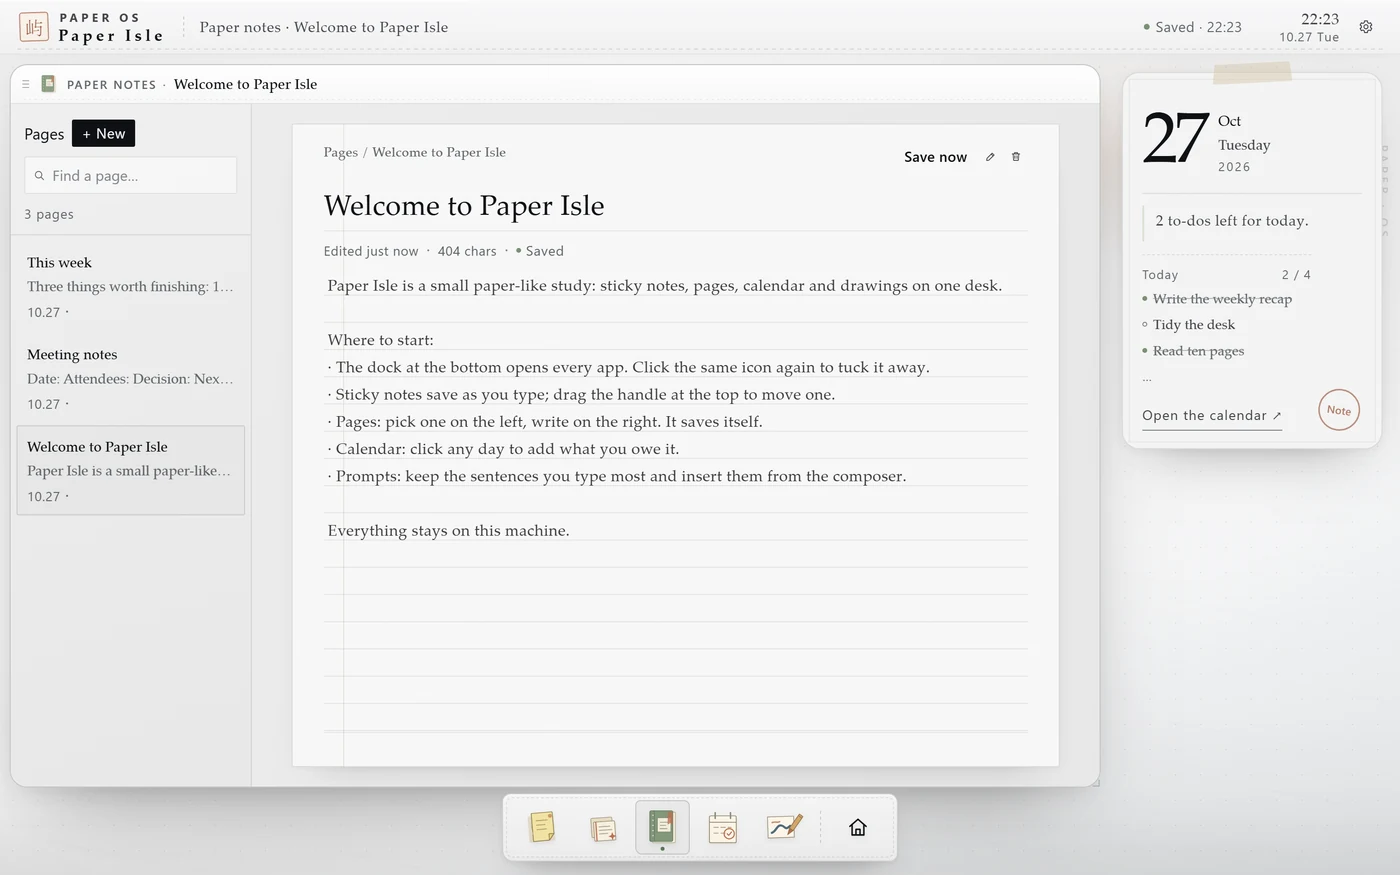
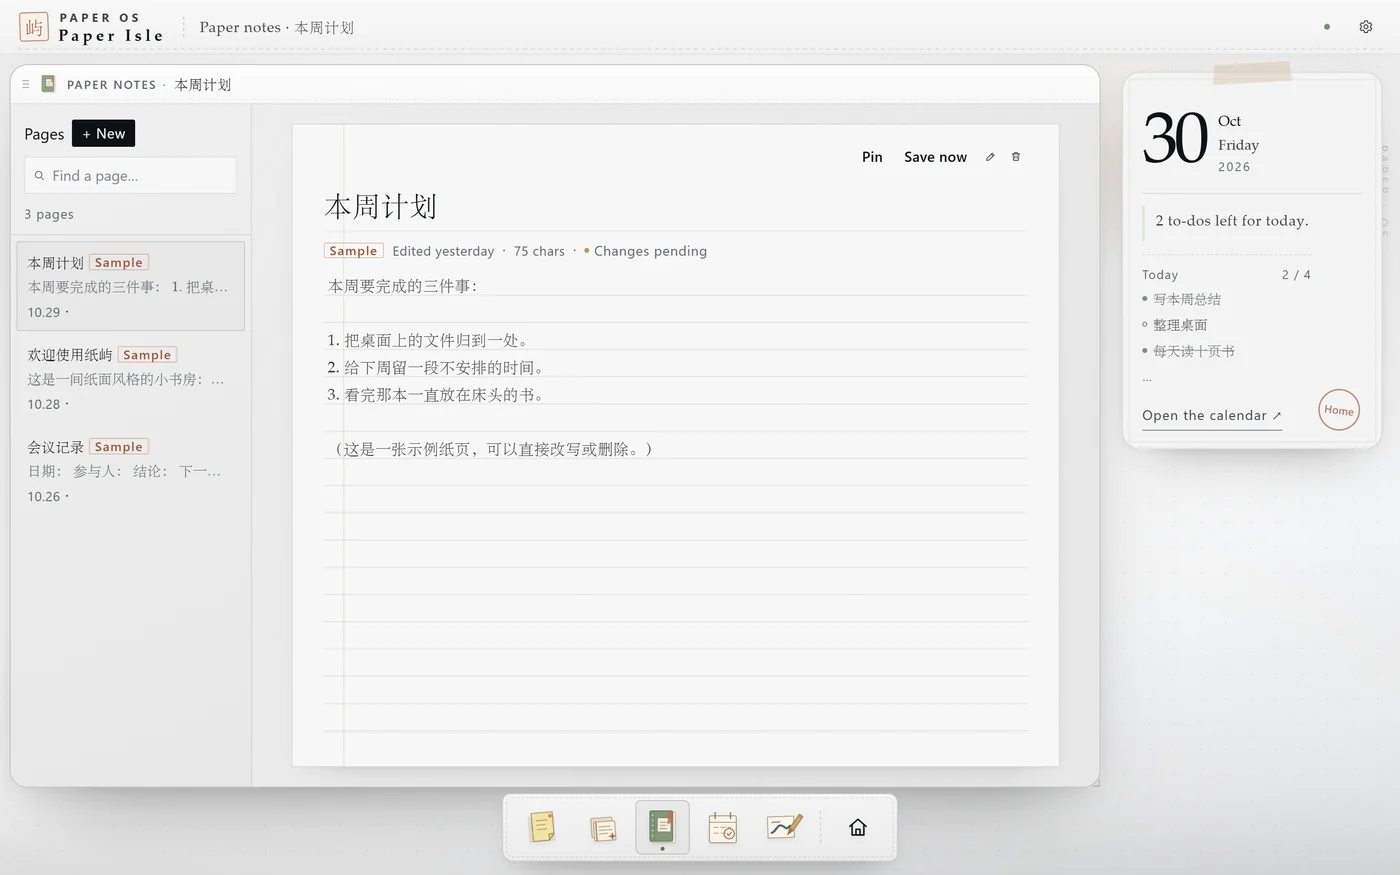
docs(0.5.0): README 截图按 0.5.0 界面重拍（中英各 8 张）+ README/CHANGELOG 对齐

diff --git a/README.en.md b/README.en.md
@@ -29,11 +29,11 @@ It is deliberately quiet: no floating toasts, no empty status rows, and no netwo
 <img width="1400" alt="Sticky notes" src="assets/screenshot-stickies-en.webp">
 
 - **Trash for stickies**: deleting a note does not pop an undo toast; the card goes to the trash at the top of the sticky window and stays for **7 days**, ready to restore. Empty cards are discarded immediately.
-- **Paper pages**: long-form writing with a searchable list on the left and autosave. A new page keeps its title as a placeholder, so an untouched page never leaves a stray untitled line behind.
+- **Paper pages**: long-form writing with a searchable list on the left and autosave. A new page keeps its title as a placeholder, so an untouched page never leaves a stray untitled line behind. Pages can be pinned; pinned pages stay on top.
 
 <img width="1400" alt="Paper pages" src="assets/screenshot-notes-en.webp">
 
-- **Calendar & tasks**: every task carries one of **four urgency levels** (urgent and important / important not urgent / urgent not important / neither), switchable **right on the task row**: tap the dot for the four levels, tap the chip beside it to flip between “today only” and “every day”. The detail dialog is optional.
+- **Calendar & tasks**: every task carries one of **four urgency levels** (urgent and important / important not urgent / urgent not important / neither), switchable **right on the task row**: tap the dot for the four levels, tap the chip beside it to flip between “today” and “every day”. The detail dialog is optional.
 - **Calendar dots**: unfinished tasks sit above the day number, coloured by level; **finished ones sink to the bottom of the cell and turn grey**, and never swap places.
 - **Repeating tasks**: choose “every day” and each day produces exactly one current instance from the anchor date; checking in today grows a fresh instance tomorrow. Only days actually checked in keep a grey dot — future days are never pre-filled. When the last instance is checked, “this task is done” appears; collapse it and no new instances grow, with the option to restore, showing “checked in N days”.
 
@@ -49,7 +49,7 @@ It is deliberately quiet: no floating toasts, no empty status rows, and no netwo
 
 <img width="1400" alt="Drawing paper" src="assets/screenshot-draw-en.webp">
 
-- **Fixed right rail**: today's card always sits on the right; windows live in the work area and never cover it.
+- **Today card**: on wide panels (>820px) it stays on the right and windows never cover it; on narrow panels it steps aside so the work area keeps the full width.
 - **Dock**: the single entry point for every app. Tap an icon to open or tuck away its window; **icons can be dragged into a new order** (`Alt + ←/→` moves the focused icon too, the order is remembered, and Settings → Appearance → “Reset” restores it). The house button on the right tucks every window away, and brings them back when tapped again.
 - **Tidy the desk**: tapping empty desk space also tucks every window into the dock (windows are kept, tap an icon to bring one back).
 - **Commands & Apps**: the first section in Settings, one keystroke away with `Ctrl/Cmd + K`. Search apps, pages or actions, `↑↓` to move, `Enter` to run; once something else opens, Settings tucks itself away.
@@ -57,7 +57,7 @@ It is deliberately quiet: no floating toasts, no empty status rows, and no netwo
 <img width="1400" alt="Commands and apps" src="assets/screenshot-commands-dark-en.webp">
 
 - **Plain windows**: no minimise/maximise/close buttons — drag the title bar to move and the bottom-right corner to resize. Close the current window with `Esc`, `Ctrl/Cmd + Alt + W`, or Settings → Commands & Apps → “Close current window”.
-- **First-run tour**: a six-step tour plays on first open; replay it from Settings → Shortcuts → “Play again”.
+- **First-run tour**: a six-step tour plays on first open; replay it from Settings → Tutorial → “Play again”.
 - **Backup**: Settings → Data & Backup exports and imports the whole workspace as JSON.
 - **Colours that match DSH**: desk, windows, panels and inset surfaces take the host's own colours, and text follows the DSH label scale. Three modes: **Follow DSH** (default — the panel follows the host's light/dark switch live, no refresh needed), Light, and Dark. The plugin only reads the host theme signal and never writes the host DOM, so it does not clash with skin plugins.
 - **Dark mode, reworked**: paper grain is removed in dark mode, and desk, windows and panels sit on a real brightness ladder; sticky cards keep their colours but a step lighter instead of turning muddy.
@@ -65,7 +65,7 @@ It is deliberately quiet: no floating toasts, no empty status rows, and no netwo
 
 <img width="1400" alt="Dark mode" src="assets/screenshot-calendar-dark-en.webp">
 
-- **Upgrades never lose data**: the workspace is versioned with a migration ladder, v1 → v2 → v3 (v3 only adds the prompt library). Before writing, the host saves the previous version as `workspace.v<old>.backup.json` and keeps `workspace.prev.json` for every write. A workspace that fails validation opens **read-only** with the original kept aside — an example desk never overwrites it.
+- **Upgrades never lose data**: the workspace is versioned with a migration ladder, v1 → v2 → v3 → v4 (v3 only adds the prompt library; v4 only adds the page `pinned` flag, and its migration changes only `version` and `meta` — no data is touched). Before writing, the host saves the previous version as `workspace.v<old>.backup.json` and keeps `workspace.prev.json` for every write. A workspace that fails validation opens **read-only** with the original kept aside — an example desk never overwrites it.
 - **Switching away does not lose state**: come back from another DSH view and the windows, the selected page, the calendar day, the sticky scroll position, the open drawing and the Settings section are all where you left them.
 
 ## Installation
@@ -110,7 +110,7 @@ After installing, “便签” appears in the left sidebar under Plugins / Autom
 | Tuck every window away | Tap the house button, or tap empty desk space |
 | Close the current window | `Esc` / `Ctrl/Cmd + Alt + W` / Settings → Commands & Apps → “Close current window” |
 | Reorder the dock | Drag an icon; or focus it and press `Alt + ←/→` |
-| Replay the tour | Settings → Shortcuts → “Play again” |
+| Replay the tour | Settings → Tutorial → “Play again” |
 | Back up data | Settings → Data & Backup → “Export workspace” |
 
 ## Where the data lives
@@ -126,7 +126,7 @@ After installing, “便签” appears in the left sidebar under Plugins / Autom
 - Built against DSH **0.2.1-rc.2**.
 - Verified on Windows 11 + DSH 0.2.1-rc.2: install, sidebar, panel, data kept after refresh and view switches, host persistence, export/import.
 - CI runs the build, page contract, DOM nesting, host route and client syntax checks on **Windows / macOS / Ubuntu** runners.
-- **Not tested on a real macOS / Linux DSH**: shortcut labels switch to ⌘/⌥ automatically; data paths use `DSH_HOME` or `~/.dsh`; there are no platform-specific binaries. Please open an issue if something breaks.
+- **Not tested on a real macOS / Linux DSH**: data paths use `DSH_HOME` or `~/.dsh`; there are no platform-specific binaries. Please open an issue if something breaks.
 - The UI ships in English and Chinese: it follows DSH Settings → General → Language by default, and Settings → Appearance → Language can override it for Paper Isle alone; windows and whatever each app was showing come back after a switch. The sidebar entry is “便签” in Chinese and “Sticky” in English.
 - Both pages are built from one Chinese source; sample content uses the language active when it was created, and anything you wrote is never translated.
 
@@ -160,7 +160,7 @@ node smoke/page_e2e.mjs
 | `smoke/run_all_checks.py` | Project gates |
 | `smoke/host_route_test.mjs` | Host persistence route, upgrade backup, font route |
 | `smoke/migrate_test.mjs` | Migration gate: v1 snapshot to v2, field by field, with negative cases |
-| `smoke/page_e2e.mjs` | Real-browser page checks (headless browser, 127 assertions across both pages) |
+| `smoke/page_e2e.mjs` | Real-browser page checks (headless browser, 167 assertions across both pages) |
 | `assets/fonts/` | Bundled handwriting subset (LXGW WenKai, OFL) with source and licence |
 
 ### Design choices

diff --git a/README.md b/README.md
@@ -23,11 +23,11 @@
 <img width="1400" alt="便签" src="assets/screenshot-stickies.webp">
 
 - **废纸篓**：删掉的便签不弹「撤销」提示，而是进便签窗口顶部的废纸篓，**留 7 天**，随时放回去；空便签直接丢弃。
-- **纸页笔记**：长文写作，左侧列表搜索/切换，自动保存。新纸页的标题像正文一样是 placeholder，不写字不会留下一行「未命名纸页」。
+- **纸页笔记**：长文写作，左侧列表搜索/切换，自动保存。新纸页的标题像正文一样是 placeholder，不写字不会留下一行「未命名纸页」。纸页可以置顶，置顶的排在最前面。
 
 <img width="1400" alt="纸页笔记" src="assets/screenshot-notes.webp">
 
-- **日历与待办**：每件事有**四档紧急程度**（重要且紧急 / 重要但不紧急 / 紧急但不重要 / 不紧急也不重要），**在待办行右侧就地切换**：点色点弹出四档选择（选中即生效），点旁边的胶囊在「仅今日 / 每天」之间切换，都不用进详情。
+- **日历与待办**：每件事有**四档紧急程度**（重要且紧急 / 重要但不紧急 / 紧急但不重要 / 不紧急也不重要），**在待办行右侧就地切换**：点色点弹出四档选择（选中即生效），点旁边的胶囊在「今日 / 每天」之间切换，都不用进详情。
 - **日历圆点**：未完成的点在上、按档位着色；**完成的点沉到格子底部并变灰**，位置固定不换位。
 - **持久待办**：选「每天」后，从锚定日起**每天出现一条当前实例**，今天打卡后第二天自动长出一条未完成的新实例；日历上只留真正打过卡的日子（灰点），未来不铺。勾完当天会出现「这件事算结束了」，收起后不再长新实例、随时可恢复，并显示「打卡 N 天」。
 
@@ -43,7 +43,7 @@
 
 <img width="1400" alt="画纸" src="assets/screenshot-draw.webp">
 
-- **固定右侧栏**：今日纸签始终在右侧，窗口只在左侧工作区活动，不会被遮住。
+- **今日纸签**：宽面板（>820px）时固定在右侧，窗口不会被遮住；窄面板下它自动让位，把整幅宽度留给窗口。
 - **底部应用坞**：所有应用的唯一入口；点图标打开/收起窗口；**图标可以拖动排序**（聚焦后按 `Alt + ←/→` 也能挪，顺序会记住；设置 → 外观 →「恢复默认」还原）；最右边的房子按钮一键收好全部窗口，再点一次恢复。
 - **点桌面收好**：点击窗口外的空白桌面，也会把全部窗口收进应用坞（不销毁窗口，点图标可恢复）。
 - **命令与应用**：设置左栏第一项，`Ctrl/Cmd + K` 直达。搜索应用、纸页或动作，`↑↓` 选择、`Enter` 执行；打开别的窗口后设置会自动收起，不挡路。
@@ -51,7 +51,7 @@
 <img width="1400" alt="命令与应用" src="assets/screenshot-commands-dark.webp">
 
 - **纯净窗口**：没有最小化/最大化/关闭三件套；拖标题栏移动，拖右下角缩放。关闭当前窗口用 `Esc`、`Ctrl/Cmd + Alt + W`，或「设置 → 命令与应用 → 关闭当前窗口」。
-- **新手导览**：首次打开自动播放 6 步导览；可在「设置 → 快捷键 → 新手导览」重播。
+- **新手导览**：首次打开自动播放 6 步导览；可在「设置 → 教程 → 新手导览」重播。
 - **数据备份**：设置 → 数据与备份，导出/导入完整工作区 JSON。
 - **配色跟 DSH 一致**：桌面、窗口、浮层、凹槽这些大色块直接用宿主自己的颜色，文字按 DSH 的 label 阶梯取；**跟随 DSH**（默认，宿主切深色时面板实时跟着变，不用刷新）/ 浅色 / 深色三档可选。插件只读宿主主题信号，不写宿主 DOM，和别的皮肤插件不冲突。
 - **深色是重做过的**：深色下去掉纸纹噪点，桌面比窗口暗一档、浮层再亮一档；便签纸保留自己的颜色但提亮了明度，不再糊成一片。
@@ -59,7 +59,7 @@
 
 <img width="1400" alt="深色档" src="assets/screenshot-calendar-dark.webp">
 
-- **升级不丢数据**：工作区带版本号与迁移阶梯，v1 → v2 → v3 自动升级（v3 新增提示词库，只做加法）；Host 在写盘前会把旧版本另存为 `workspace.v<旧版本>.backup.json`，并在每次写入前留一份 `workspace.prev.json`。存储里的工作区若过不了校验，会**只读打开**并另存原稿，绝不拿示例桌面覆盖。
+- **升级不丢数据**：工作区带版本号与迁移阶梯，v1 → v2 → v3 → v4 自动升级（v3 新增提示词库，只做加法；v4 只新增纸页 `pinned` 字段，迁移只改 `version` 与 `meta`，不动数据）；Host 在写盘前会把旧版本另存为 `workspace.v<旧版本>.backup.json`，并在每次写入前留一份 `workspace.prev.json`。存储里的工作区若过不了校验，会**只读打开**并另存原稿，绝不拿示例桌面覆盖。
 - **切换不丢状态**：切到 DSH 其它界面再回来，窗口、以及每个应用正在看的东西（选中的纸页、日历停在哪天、便签滚到哪、画纸开哪张、设置哪个分区）都会复原。
 
 ## 安装
@@ -104,7 +104,7 @@ DSH → Plugins → Add plugin，填本目录的**绝对路径**：
 | 一次收好全部窗口 | 点房子按钮，或点窗口外的空白桌面 |
 | 关闭当前窗口 | `Esc` / `Ctrl/Cmd + Alt + W` / 设置 → 命令与应用 →「关闭当前窗口」 |
 | 应用坞换顺序 | 直接拖动图标；或聚焦图标后按 `Alt + ←/→` |
-| 重看新手导览 | 设置 → 快捷键 → 新手导览 →「重新播放」 |
+| 重看新手导览 | 设置 → 教程 → 新手导览 →「重新播放」 |
 | 备份数据 | 设置 → 数据与备份 →「导出工作区」 |
 
 ## 数据存在哪里
@@ -120,7 +120,7 @@ DSH → Plugins → Add plugin，填本目录的**绝对路径**：
 - 开发依据：DSH **0.2.1-rc.2**。
 - 已在 Windows 11 + DSH 0.2.1-rc.2 实测：安装、侧栏、面板、刷新/切换后数据保持、宿主落盘、导出/导入路径。
 - CI 在 **Windows / macOS / Ubuntu** 三个 runner 上执行构建、页面契约、DOM 嵌套、宿主路由与客户端语法检查。
-- **未在 macOS / Linux 真机 DSH 上实测**：快捷键标签会自动使用 ⌘/⌥；数据路径使用 `DSH_HOME` 或 `~/.dsh`；没有平台专属二进制。发现问题请提 issue。
+- **未在 macOS / Linux 真机 DSH 上实测**：数据路径使用 `DSH_HOME` 或 `~/.dsh`；没有平台专属二进制。发现问题请提 issue。
 - 界面中英双语：默认跟随 DSH「设置 → 通用 → 语言」，也可以在「纸屿设置 → 外观 → 语言」里单独选中文 / English；切语言时窗口与正在看的内容都会恢复。插件列表里中文叫「便签」，英文叫 “Sticky”。
 - 英文页面与中文页面由同一份源构建，示例内容按首次创建时的语言生成；你自己写的内容不会被翻译。
 
@@ -160,7 +160,7 @@ node smoke/page_e2e.mjs
 | `assets/i18n/en.templates.json` | 带参/复数模板（F()） |
 | `smoke/host_route_test.mjs` | Host 持久化路由 + 升级备份 + 字体路由测试 |
 | `smoke/migrate_test.mjs` | 迁移门禁：v1 快照升 v2 后逐字段比对，含反向用例 |
-| `smoke/page_e2e.mjs` | 真机页面检查（无头浏览器，中英两页 127 项断言） |
+| `smoke/page_e2e.mjs` | 真机页面检查（无头浏览器，中英两页 167 项断言） |
 | `assets/fonts/` | 内置手写体子集（霞鹜文楷，OFL）与来源/许可 |
 
 ### 设计取舍

diff --git a/CHANGELOG.md b/CHANGELOG.md
@@ -34,8 +34,8 @@
 ### 9. 对话输入框的提示词入口
 删掉弹层底部的「只填入草稿，不会发送」，只留「在便签里管理 ↗」。
 
-### 已知差距
-README 的 16 张截图**未重拍**，其中设置页、纸页页与提示词页仍显示本次删掉的文案。截图脚本不在仓库内，重拍需另起一次任务。
+### README 截图
+README 的 16 张截图已按 0.5.0 界面重拍（8 张中文 + 8 张英文；1440×900 @2× → 1400px webp），设置页、纸页页与提示词页不再显示本次删掉的文案。
 
 ## [0.4.4] - 2026-10-27
 
